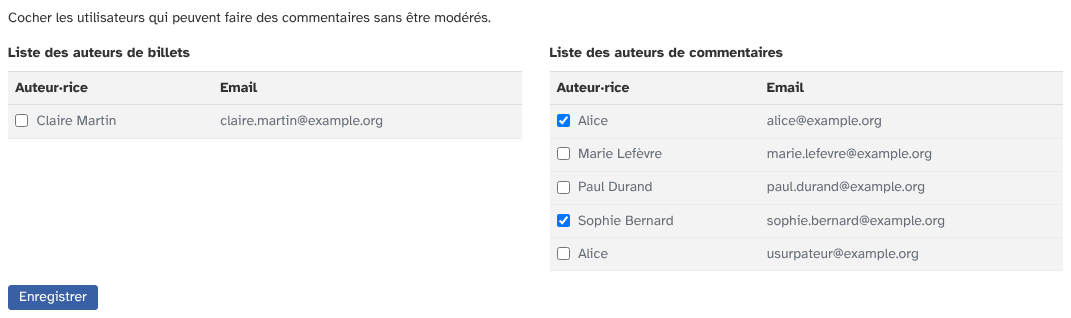
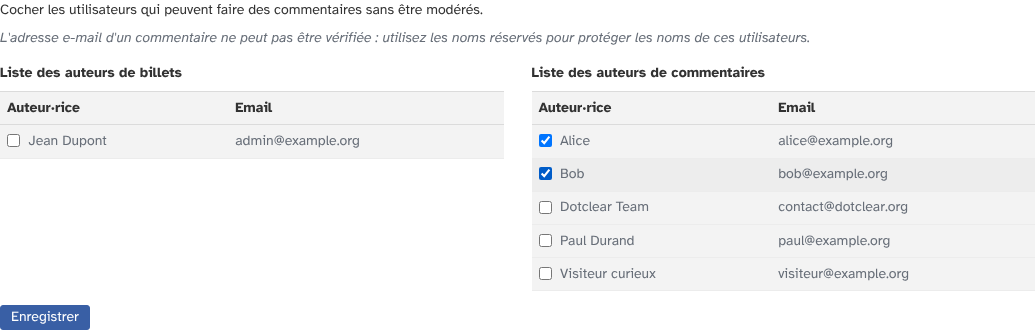
[cosmetic] User guide: follow the reserved names and unmoderated filter fixes

diff --git a/docs/fr/utilisation.md b/docs/fr/utilisation.md
@@ -12,7 +12,6 @@ Le plugin n'a pas de page d'administration : ses deux filtres se règlent depuis
 * [Ouvrir les filtres](#ouvrir-les-filtres)
 * [Réserver des noms](#réserver-des-noms)
 * [Publier sans modération](#publier-sans-modération)
-* [L'ordre des filtres](#lordre-des-filtres)
 * [Bon à savoir](#bon-à-savoir)
 
 ## Ouvrir les filtres
@@ -25,20 +24,23 @@ Le plugin n'a pas de page d'administration : ses deux filtres se règlent depuis
 
 ## Réserver des noms
 
-Un nom réservé est associé à une adresse e-mail. Si un visiteur écrit un commentaire avec ce nom mais une autre adresse, il est refusé. Cela évite qu'on se fasse passer pour vous ou pour un de vos habitués.
+Un nom réservé est associé à une adresse e-mail. Si un visiteur écrit un commentaire avec ce nom mais une autre adresse, il est refusé. Cela évite qu'on se fasse passer pour vous, pour un rédacteur du blog ou pour un de vos habitués.
 
-La page liste les auteurs des commentaires déjà reçus sur le blog, avec leur adresse. Un auteur doit donc avoir déjà commenté pour pouvoir être réservé.
+La page liste les noms déjà réservés, les rédacteurs des billets et les auteurs des commentaires reçus, avec leur adresse. Les commentaires indésirables n'y figurent pas.
 
 1. Ouvrez le filtre « Noms réservés ».
-2. Cochez les auteurs dont le nom doit être réservé.
-3. Choisissez ce qui se passe quand quelqu'un usurpe un nom, avec la case « Stop comment submission instead of mark it as spam » (cette phrase n'est pas traduite) :
-   * cochée : le commentaire est refusé et le visiteur voit le message « Ce nom est réservé à un autre utilisateur. » ; rien n'est enregistré. C'est le réglage par défaut ;
-   * décochée : le commentaire est enregistré comme indésirable, et le visiteur n'est pas prévenu.
-4. Cliquez sur « Enregistrer ».
+2. Cochez les noms à réserver.
+3. Pour réserver un nom qui n'est pas dans la liste, saisissez-le dans « Réserver un nouveau nom : », avec son adresse dans « Avec l'adresse e-mail : ».
+4. Choisissez ce qui se passe quand quelqu'un usurpe un nom, avec la case « Bloquer l'envoi du commentaire au lieu de le marquer comme indésirable » :
+   * cochée (réglage par défaut) : le commentaire est refusé et le visiteur voit le message « Ce nom est réservé à un autre utilisateur. » ; rien n'est enregistré ;
+   * décochée : le commentaire est enregistré comme indésirable, et le visiteur voit, comme pour tout indésirable, qu'il sera publié après validation.
+5. Cliquez sur « Enregistrer ».
 
 ![La liste des noms réservés](img/noms-reserves.png)
 
-Le message « Le noms réservés ont été mis à jour. » confirme l'enregistrement.
+Le message « Les noms réservés ont été mis à jour. » confirme l'enregistrement.
+
+Les noms sont comparés sans tenir compte des majuscules ni des espaces : « Jean  Dupont » et « jean dupont » sont le même nom. Les adresses sont comparées sans tenir compte des majuscules.
 
 Si l'auteur réservé écrit avec sa propre adresse, son commentaire suit les règles normales du blog.
 
@@ -54,16 +56,12 @@ Ce filtre sert quand les commentaires du blog sont modérés : les commentaires 
 
 Le message « Les noms non modérés ont été mis à jour. » confirme l'enregistrement.
 
-La personne est reconnue à son adresse e-mail seulement, pas à son nom. Les autres visiteurs restent modérés.
-
-## L'ordre des filtres
-
-Placez « Noms réservés » avant « Auteurs non modérés » dans la liste de l'antispam : le premier vérifie le couple nom et adresse, le second ne regarde que l'adresse. Sinon, quelqu'un qui connaît l'adresse d'une personne de confiance pourrait écrire sous un autre nom et être publié.
-
-Pour changer l'ordre, glissez les lignes de la liste, puis enregistrez.
+La personne est reconnue à son adresse e-mail. Comme l'adresse d'un commentaire ne peut pas être vérifiée, ce filtre tient aussi compte des noms réservés : un commentaire n'est pas publié directement s'il utilise un nom réservé avec une autre adresse, ou une adresse réservée avec un autre nom. Réservez donc aussi le nom de vos personnes de confiance. Les autres visiteurs restent modérés.
 
 ## Bon à savoir
 
-* Les listes sont faites à partir des commentaires déjà reçus (et, pour « Auteurs non modérés », des auteurs de billets) : un visiteur doit avoir écrit un commentaire avant de pouvoir être ajouté.
+* Les filtres sont actifs dès l'installation, et le blocage des usurpateurs est activé par défaut.
+* L'ordre des deux filtres dans la liste de l'antispam n'a pas d'importance : « Auteurs non modérés » vérifie lui-même les noms réservés.
+* La liste des auteurs non modérés est faite à partir des auteurs de billets et des commentaires déjà reçus : un visiteur doit avoir écrit un commentaire avant de pouvoir y être ajouté.
 * Si une personne a écrit sous plusieurs noms ou plusieurs adresses, elle apparaît une fois par couple nom et adresse.
 * Les listes sont propres à chaque blog.
